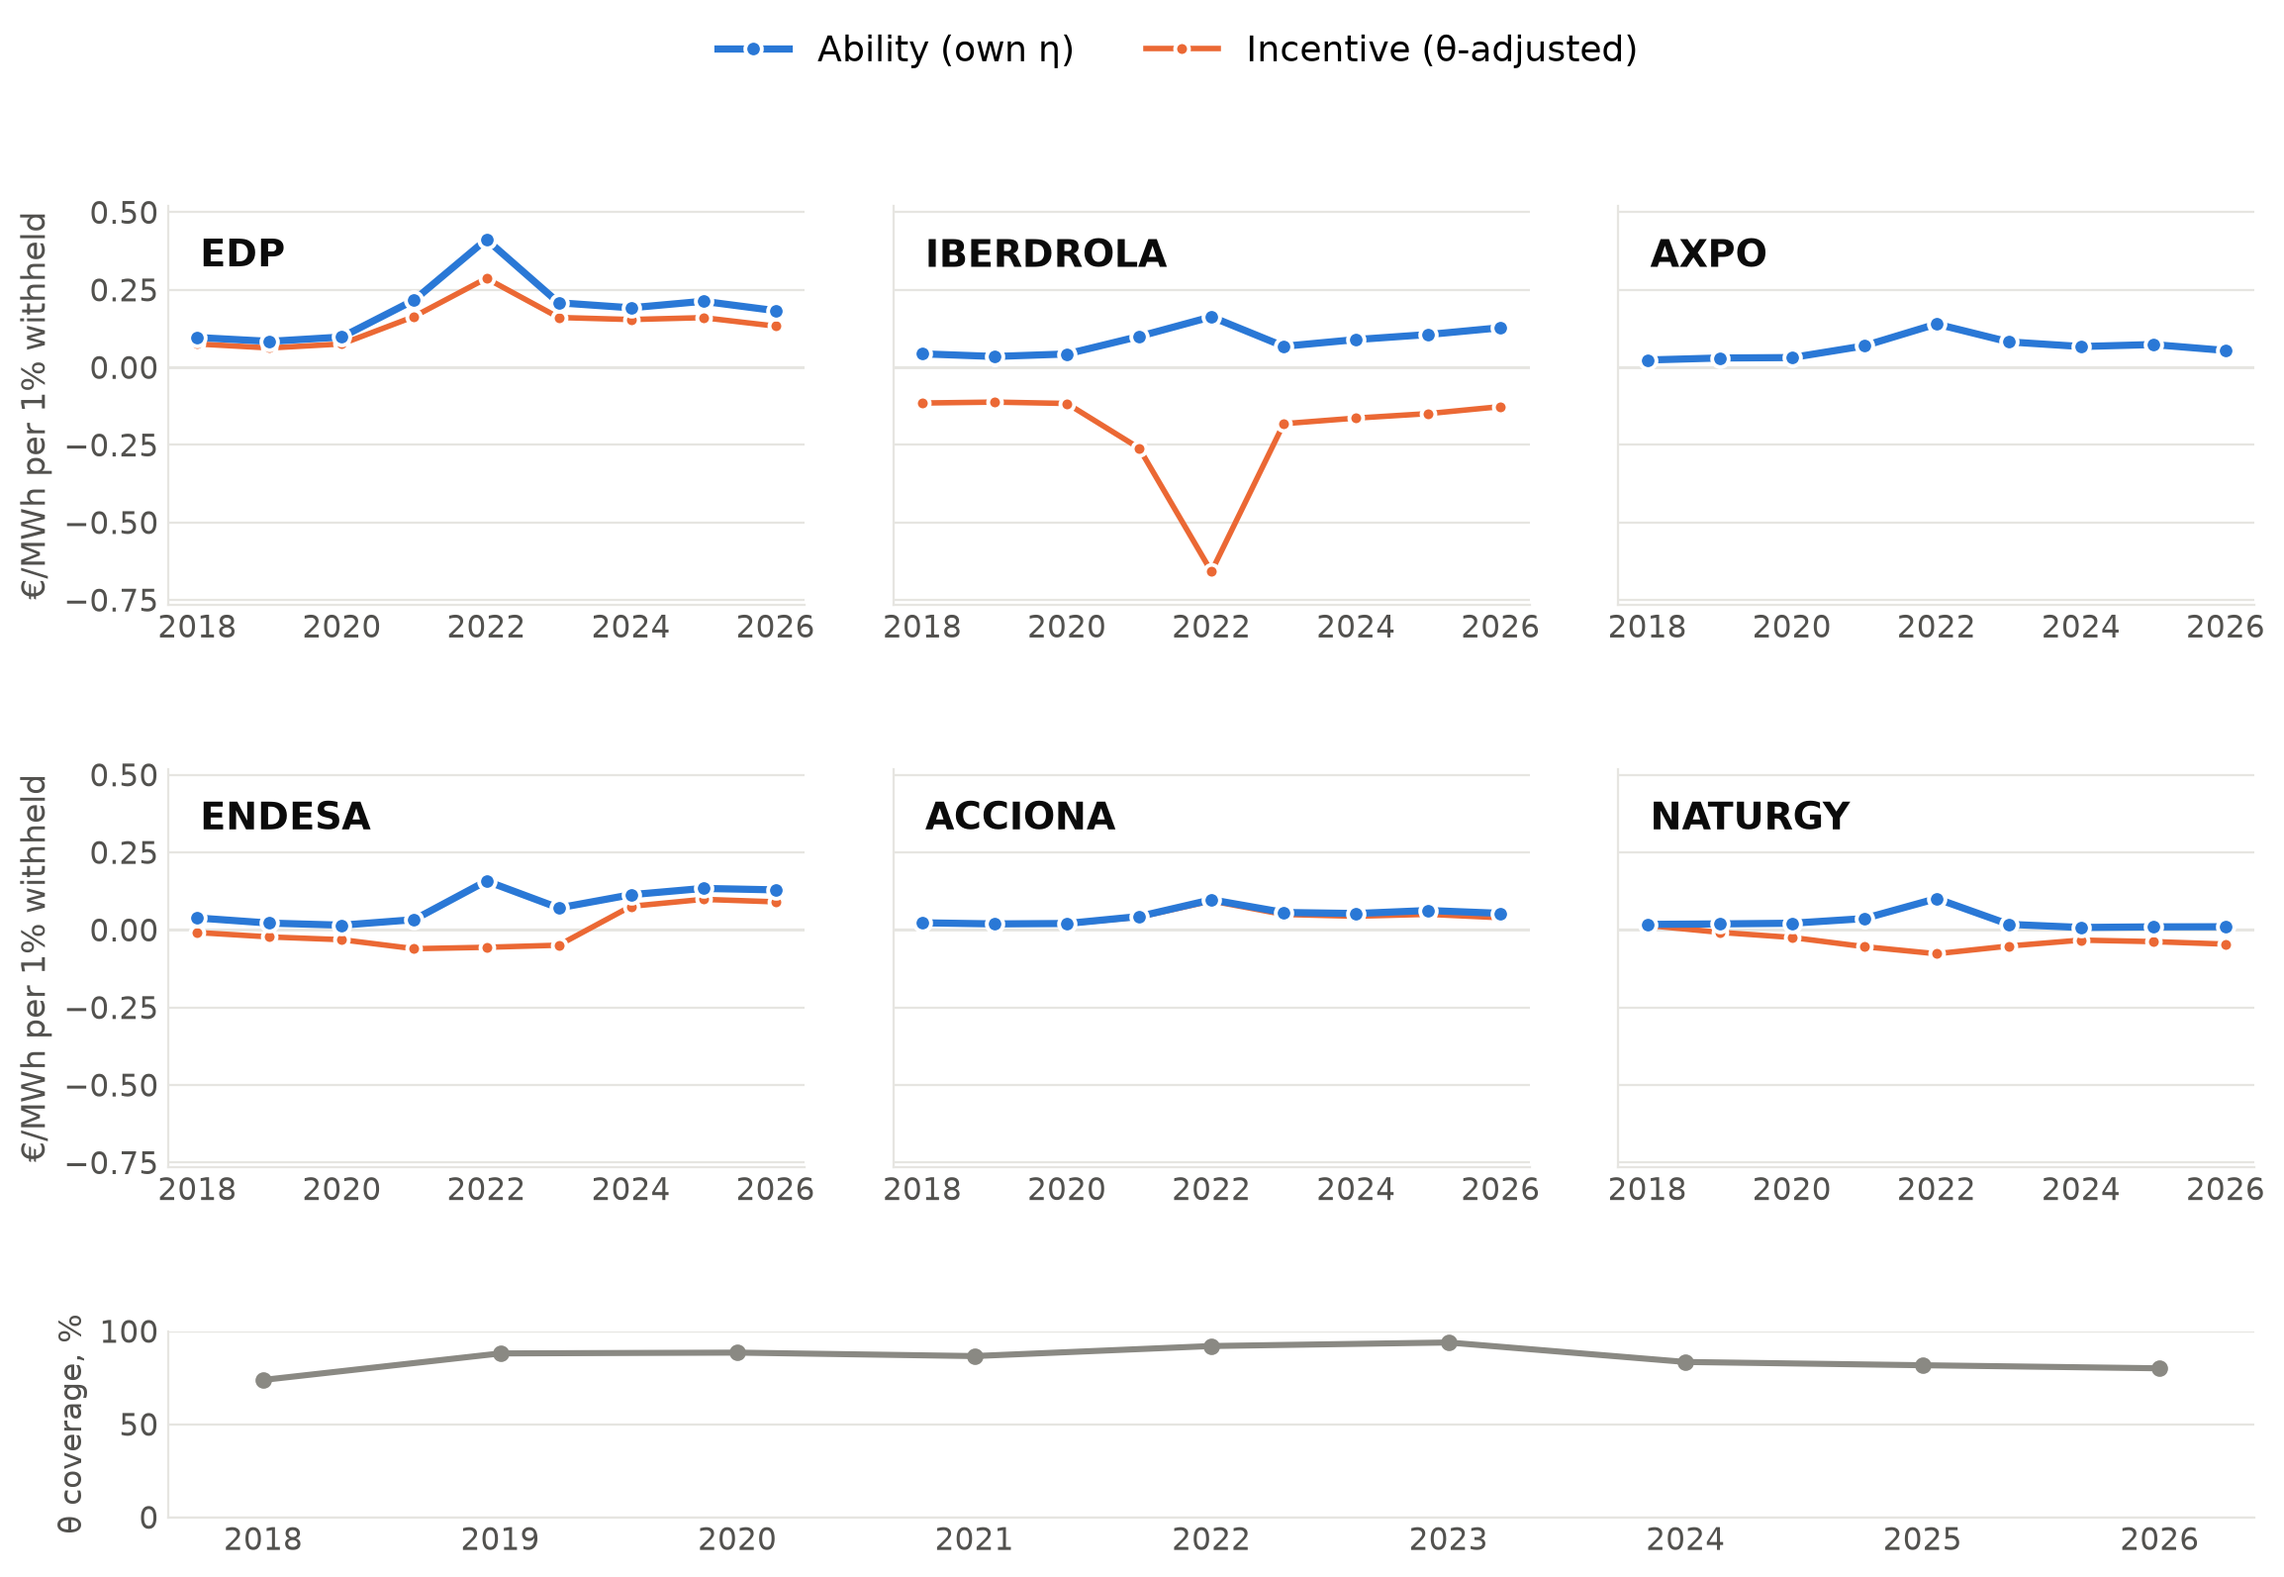
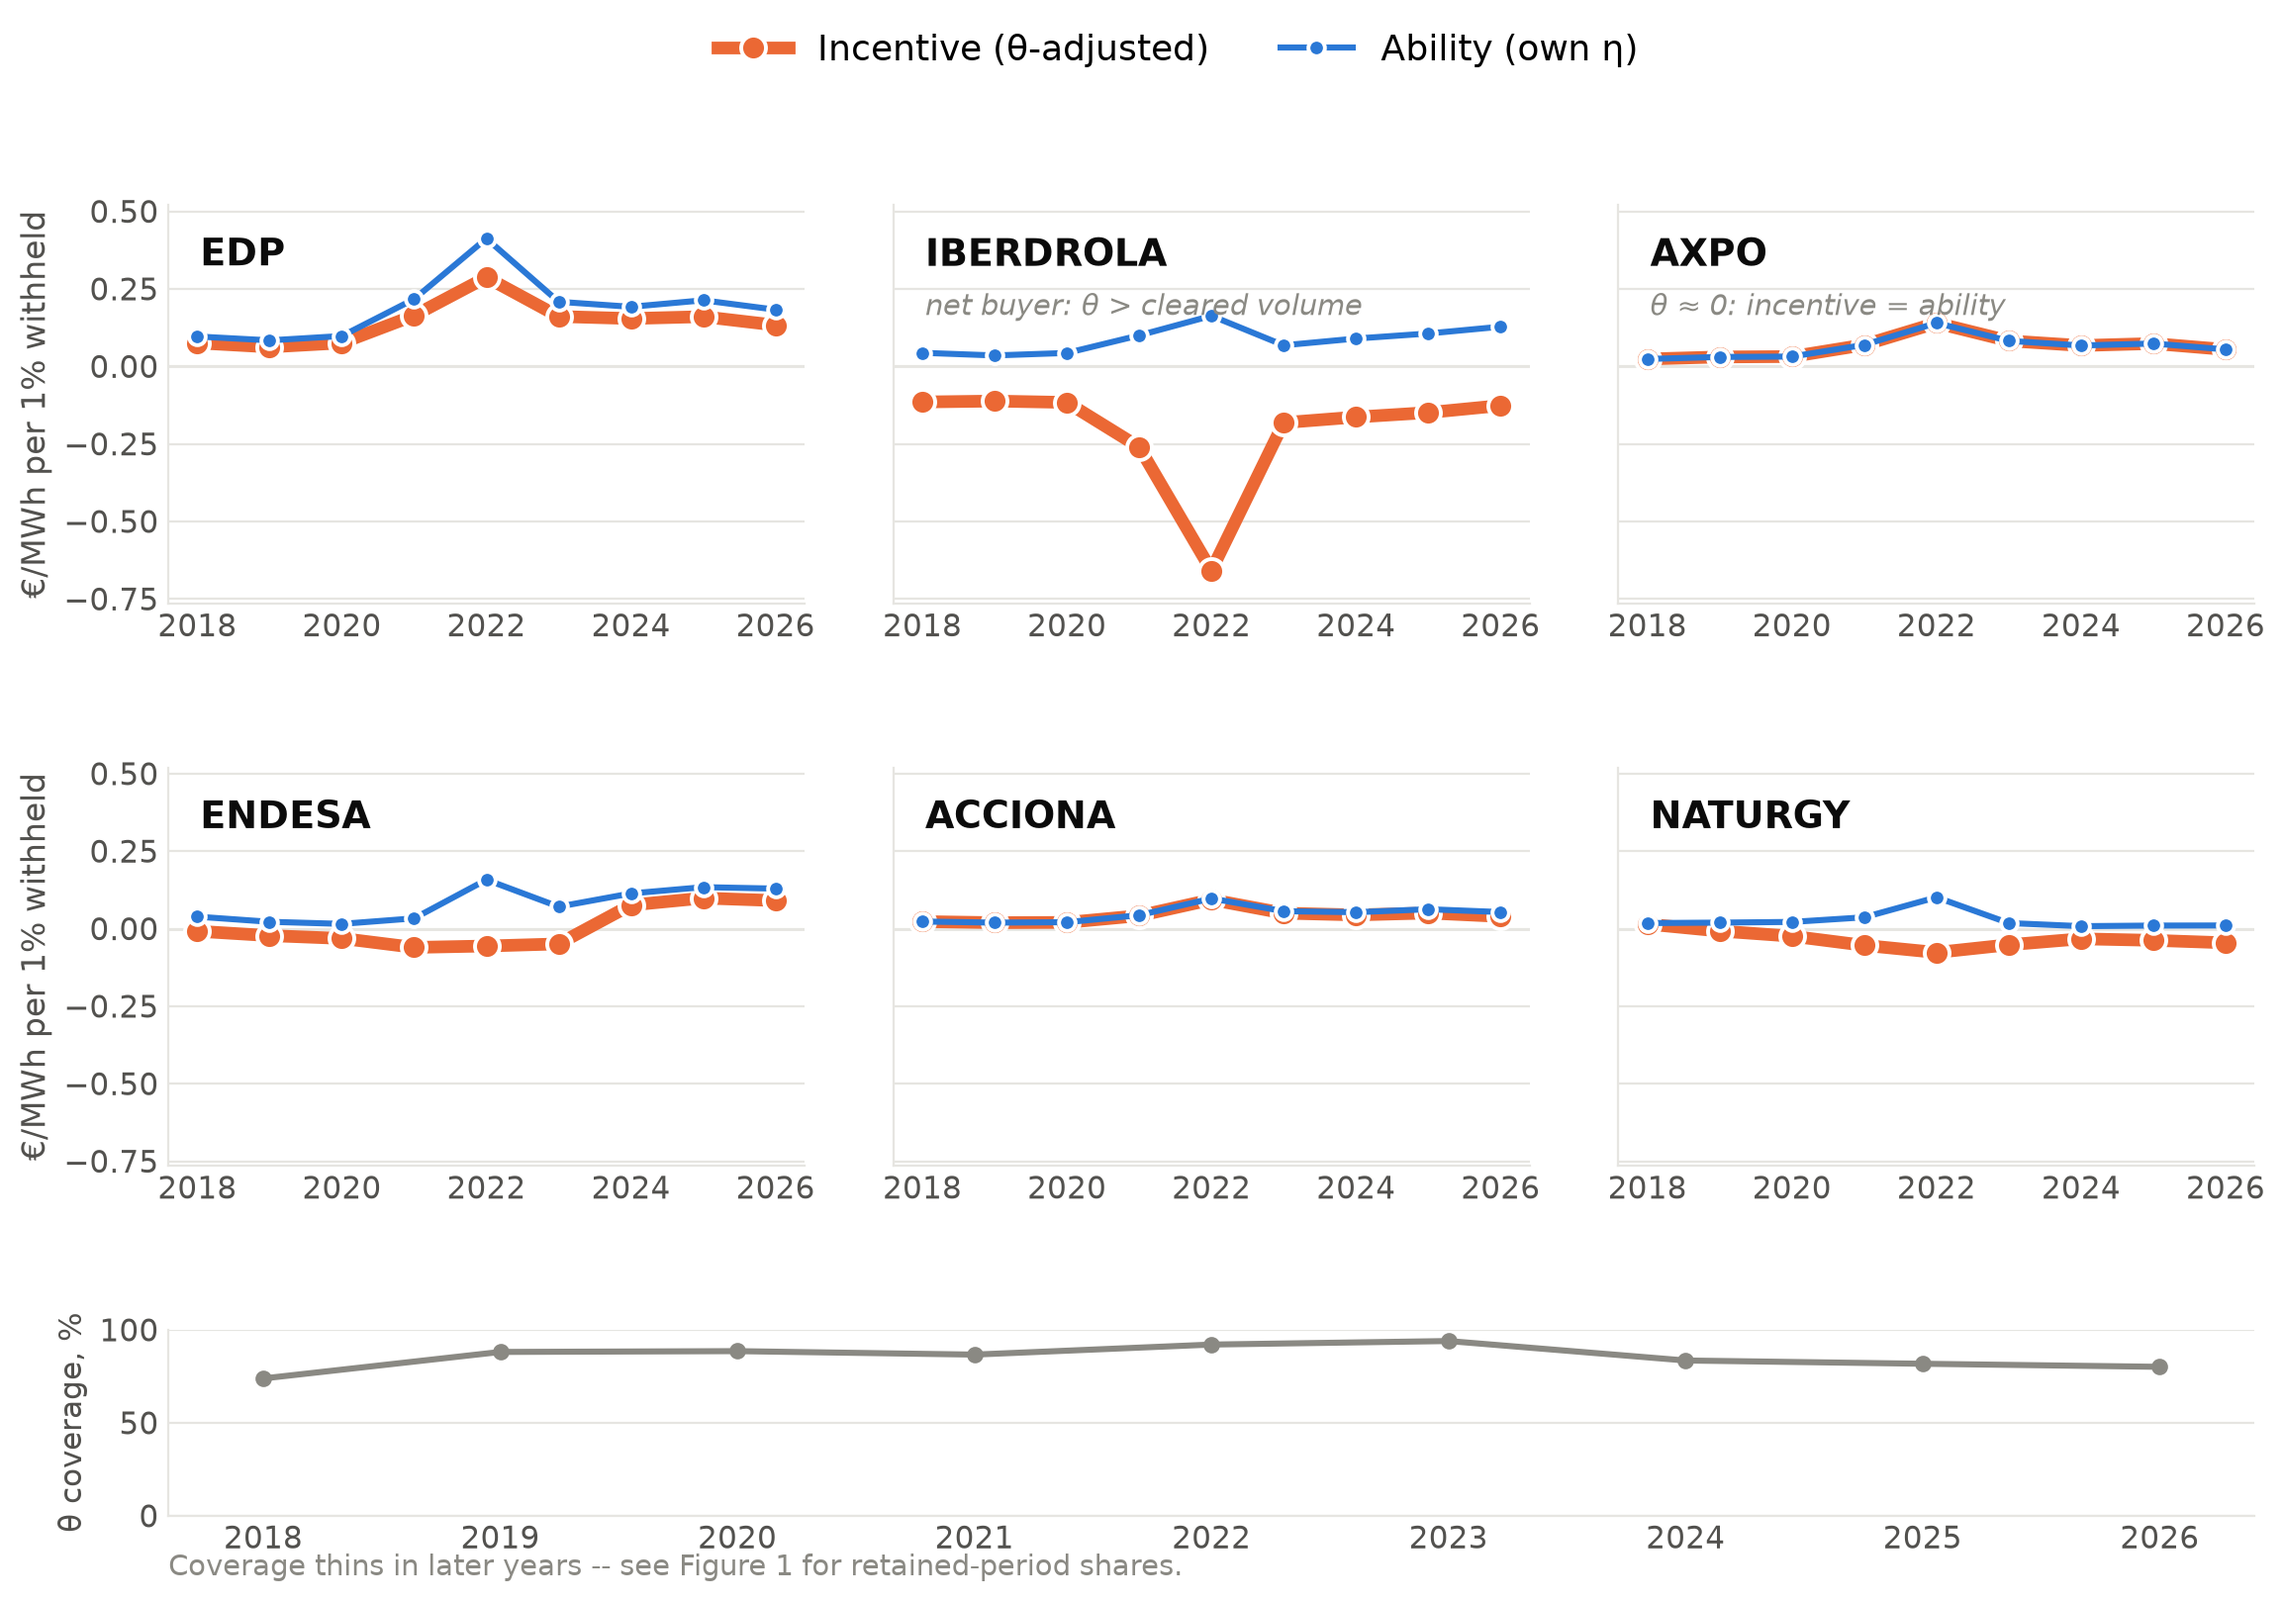
Fix CNMC label attachment and Axpo/theta legibility in figures

diff --git a/scripts/analysis/descriptive_figures.py b/scripts/analysis/descriptive_figures.py
@@ -113,8 +113,14 @@ def fig_divergence(eta: pd.DataFrame, conc: pd.DataFrame, cnmc: pd.DataFrame) ->
                     textcoords="offset points", va="center", color=INK, fontsize=14)
     cn = base(cnmc.set_index("year").HHI.loc[2018:2023])
     ax.plot(cn.index, cn.values, color=MUTED, lw=2, ls=(0, (4, 3)), zorder=2)
-    ax.annotate("CNMC, published", xy=(2023, cn.loc[2023]), xytext=(6, -16),
-                textcoords="offset points", color=MUTED, fontsize=12)
+    # The dashed line runs visually coincident with "Concentration, all volume"
+    # (orange) for most of its span, so a same-color leader line anchored to
+    # its own endpoint -- not just nearby text -- is what makes the label
+    # unambiguous rather than reading as attached to whichever line is closest.
+    ax.annotate("CNMC, published", xy=(2023, cn.loc[2023]), xytext=(34, -34),
+                textcoords="offset points", color=MUTED, fontsize=12,
+                arrowprops=dict(arrowstyle="-", color=MUTED, lw=1.3,
+                                 shrinkA=2, shrinkB=4))
     for a, b in ((2021.71, 2023.99), (2022.46, 2023.99)):
         ax.axvspan(a, b, color=GRID, alpha=0.45, zorder=0)
     ax.set_ylabel("Index, 2018 = 100")
@@ -232,15 +238,35 @@ def fig_firm_ability(firm: pd.DataFrame) -> None:
         _frame(ax)
         dd = g[g.firm == f].sort_values("year")
         ax.axhline(0, color=GRID, lw=1.0, zorder=1)
-        ax.plot(dd.year, dd.ability_h5, color=BLUE, lw=2.6, marker="o", ms=6,
-                zorder=3, markeredgecolor=SURFACE, markeredgewidth=1.4,
-                label="Ability (own η)")
-        ax.plot(dd.year, dd.incentive_h5, color=ORANGE, lw=2.0, marker="o", ms=5,
+        # incentive drawn wider and underneath, ability narrower on top: where
+        # the two series are literally identical (a firm with theta ~ 0, see
+        # below) this leaves a visible orange edge rather than the orange
+        # series disappearing entirely under blue.
+        ax.plot(dd.year, dd.incentive_h5, color=ORANGE, lw=4.6, marker="o", ms=9,
                 zorder=2, markeredgecolor=SURFACE, markeredgewidth=1.4,
                 label="Incentive (θ-adjusted)")
+        ax.plot(dd.year, dd.ability_h5, color=BLUE, lw=2.2, marker="o", ms=6,
+                zorder=3, markeredgecolor=SURFACE, markeredgewidth=1.4,
+                label="Ability (own η)")
         ax.set_ylim(*ylim)
         ax.text(0.05, 0.92, f, transform=ax.transAxes, fontsize=13.5,
                 fontweight="bold", color=INK, va="top")
+
+        # Both conditions are read off the plotted series themselves, not
+        # hardcoded to a firm name, so they fire wherever the data shows the
+        # pattern rather than only for the firm that motivated adding them.
+        max_gap = (dd.ability_h5 - dd.incentive_h5).abs().max()
+        mean_incentive = dd.incentive_h5.mean()
+        # Placed on its own row directly under the firm-name label -- both
+        # ability and incentive stay well below this band for every firm the
+        # condition actually fires on, so it clears the data regardless of
+        # where in the year range a series happens to dip or peak.
+        if max_gap < 1e-3:
+            ax.text(0.05, 0.78, "θ ≈ 0: incentive = ability", transform=ax.transAxes,
+                    ha="left", va="top", fontsize=10.5, color=MUTED, style="italic")
+        elif mean_incentive < -0.05:
+            ax.text(0.05, 0.78, "net buyer: θ > cleared volume", transform=ax.transAxes,
+                    ha="left", va="top", fontsize=10.5, color=MUTED, style="italic")
         if c != 0:
             ax.tick_params(labelleft=False)
         else:
@@ -258,6 +284,10 @@ def fig_firm_ability(firm: pd.DataFrame) -> None:
     axc.set_ylabel("θ coverage, %", fontsize=11)
     axc.set_ylim(0, 100)
     axc.tick_params(labelsize=11)
+    # theta_coverage is a different quantity (contract-position coverage) and
+    # does not stand in for the period-thinning note every other time-axis
+    # figure carries -- add it explicitly rather than relying on the strip.
+    axc.text(0.0, -0.32, THIN_NOTE, transform=axc.transAxes, fontsize=10.5, color=MUTED)
 
     fig.savefig(FIGS / "firm_ability.png", dpi=200, bbox_inches="tight")
     plt.close(fig)
